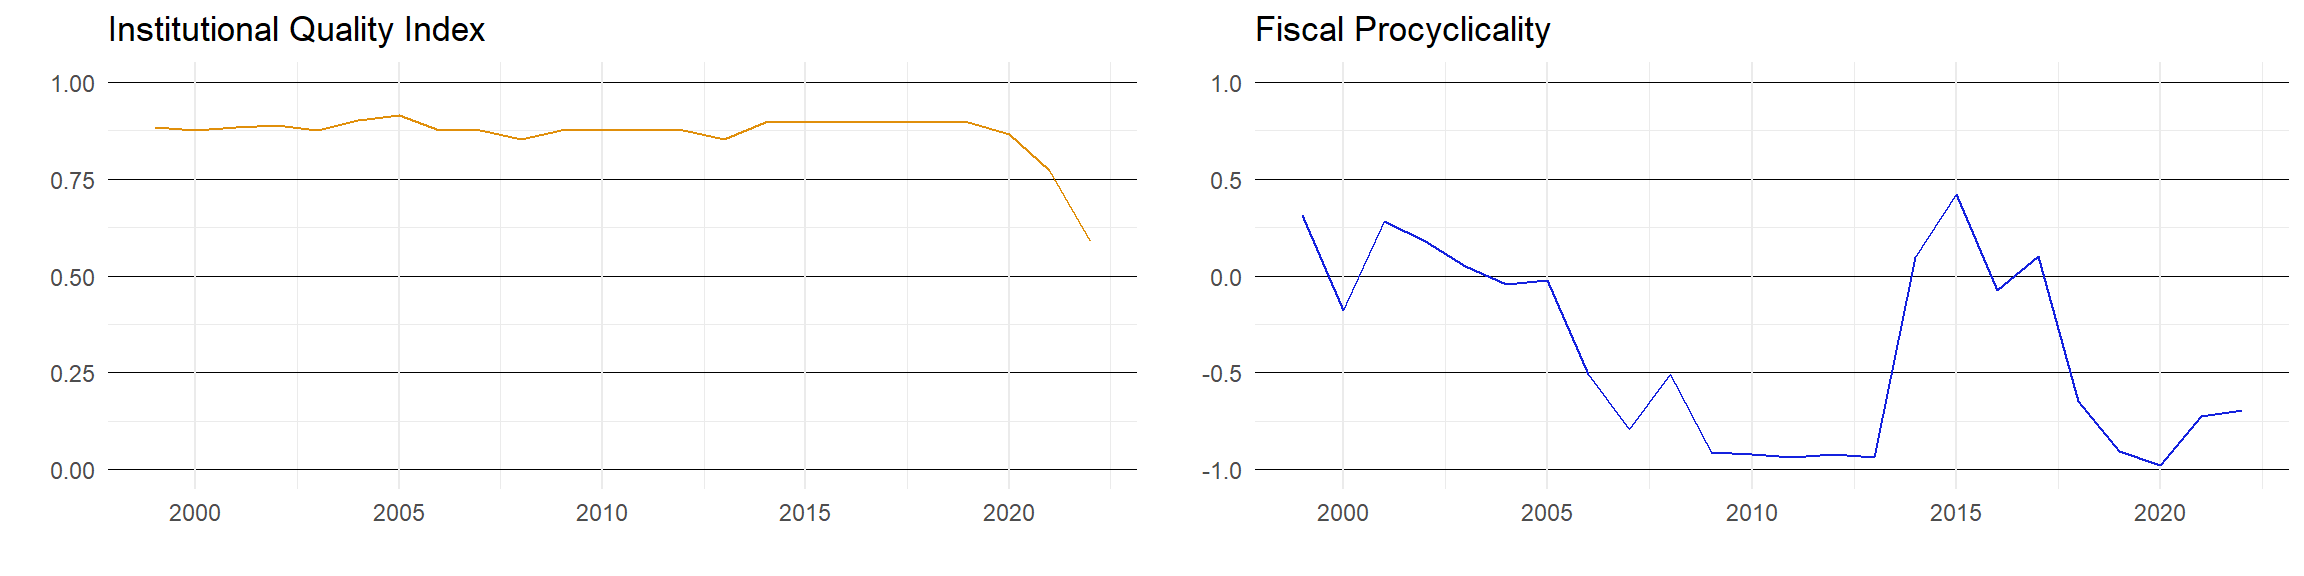
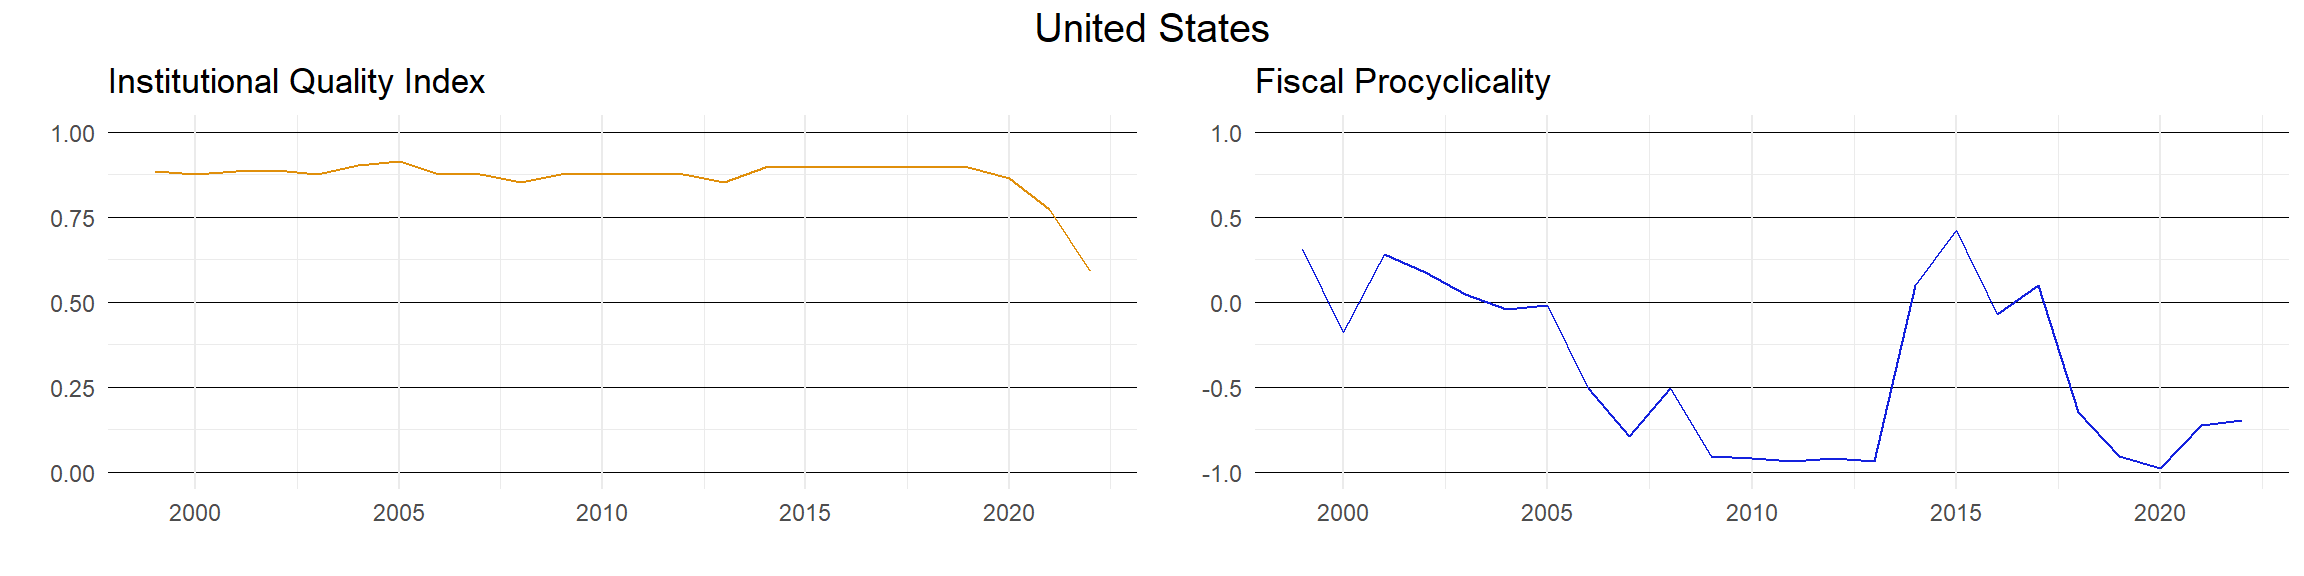
Finished first and final draft of project 1

diff --git a/docs/contents/procyclicality.html b/docs/contents/procyclicality.html
@@ -464,11 +464,21 @@ pre > code.sourceCode > span > a:first-child::before { text-decoration: underlin
 <div class="sourceCode cell-code" id="cb6"><pre class="sourceCode r code-with-copy"><code class="sourceCode r"><span id="cb6-1"><a href="#cb6-1" aria-hidden="true" tabindex="-1"></a><span class="co"># Import library for a grid of charts</span></span>
 <span id="cb6-2"><a href="#cb6-2" aria-hidden="true" tabindex="-1"></a><span class="fu">library</span>(cowplot)</span>
 <span id="cb6-3"><a href="#cb6-3" aria-hidden="true" tabindex="-1"></a></span>
-<span id="cb6-4"><a href="#cb6-4" aria-hidden="true" tabindex="-1"></a><span class="fu">plot_grid</span>(</span>
-<span id="cb6-5"><a href="#cb6-5" aria-hidden="true" tabindex="-1"></a>  <span class="fu">pltime</span>(df, <span class="st">'Ecuador'</span>, <span class="st">'IQ'</span>),</span>
-<span id="cb6-6"><a href="#cb6-6" aria-hidden="true" tabindex="-1"></a>  <span class="fu">pltime</span>(df, <span class="st">'Ecuador'</span>, <span class="st">'ROLCOR'</span>),</span>
-<span id="cb6-7"><a href="#cb6-7" aria-hidden="true" tabindex="-1"></a>  <span class="at">nrow =</span> <span class="dv">1</span></span>
-<span id="cb6-8"><a href="#cb6-8" aria-hidden="true" tabindex="-1"></a>)</span></code><button title="Copy to Clipboard" class="code-copy-button"><i class="bi"></i></button></pre></div>
+<span id="cb6-4"><a href="#cb6-4" aria-hidden="true" tabindex="-1"></a><span class="co"># Draw the title for Ecuador</span></span>
+<span id="cb6-5"><a href="#cb6-5" aria-hidden="true" tabindex="-1"></a>title <span class="ot">&lt;-</span> </span>
+<span id="cb6-6"><a href="#cb6-6" aria-hidden="true" tabindex="-1"></a>  <span class="fu">ggdraw</span>() <span class="sc">+</span></span>
+<span id="cb6-7"><a href="#cb6-7" aria-hidden="true" tabindex="-1"></a>  <span class="fu">draw_label</span>(<span class="st">"Ecuador"</span>, <span class="at">size =</span> <span class="dv">15</span>)</span>
+<span id="cb6-8"><a href="#cb6-8" aria-hidden="true" tabindex="-1"></a></span>
+<span id="cb6-9"><a href="#cb6-9" aria-hidden="true" tabindex="-1"></a><span class="co"># Plot without title and save</span></span>
+<span id="cb6-10"><a href="#cb6-10" aria-hidden="true" tabindex="-1"></a>base <span class="ot">&lt;-</span></span>
+<span id="cb6-11"><a href="#cb6-11" aria-hidden="true" tabindex="-1"></a>  <span class="fu">plot_grid</span>(</span>
+<span id="cb6-12"><a href="#cb6-12" aria-hidden="true" tabindex="-1"></a>  <span class="fu">pltime</span>(df, <span class="st">'Ecuador'</span>, <span class="st">'IQ'</span>),</span>
+<span id="cb6-13"><a href="#cb6-13" aria-hidden="true" tabindex="-1"></a>  <span class="fu">pltime</span>(df, <span class="st">'Ecuador'</span>, <span class="st">'ROLCOR'</span>),</span>
+<span id="cb6-14"><a href="#cb6-14" aria-hidden="true" tabindex="-1"></a>  <span class="at">nrow =</span> <span class="dv">1</span></span>
+<span id="cb6-15"><a href="#cb6-15" aria-hidden="true" tabindex="-1"></a>)</span>
+<span id="cb6-16"><a href="#cb6-16" aria-hidden="true" tabindex="-1"></a></span>
+<span id="cb6-17"><a href="#cb6-17" aria-hidden="true" tabindex="-1"></a><span class="co"># Include title</span></span>
+<span id="cb6-18"><a href="#cb6-18" aria-hidden="true" tabindex="-1"></a><span class="fu">plot_grid</span>(title, base, <span class="at">ncol =</span> <span class="dv">1</span>, <span class="at">rel_heights =</span> <span class="fu">c</span>(<span class="fl">0.15</span>, <span class="dv">1</span>))</span></code><button title="Copy to Clipboard" class="code-copy-button"><i class="bi"></i></button></pre></div>
 </details>
 <div class="cell-output-display">
 <p><img src="procyclicality_files/figure-html/unnamed-chunk-6-1.png" class="img-fluid" width="1152"></p>
@@ -477,12 +487,21 @@ pre > code.sourceCode > span > a:first-child::before { text-decoration: underlin
 <div class="cell" data-output-location="column" data-fig.format="svg">
 <details>
 <summary>Code</summary>
-<div class="sourceCode cell-code" id="cb7"><pre class="sourceCode r code-with-copy"><code class="sourceCode r"><span id="cb7-1"><a href="#cb7-1" aria-hidden="true" tabindex="-1"></a><span class="co">#</span></span>
-<span id="cb7-2"><a href="#cb7-2" aria-hidden="true" tabindex="-1"></a><span class="fu">plot_grid</span>(</span>
-<span id="cb7-3"><a href="#cb7-3" aria-hidden="true" tabindex="-1"></a>  <span class="fu">pltime</span>(df, <span class="st">'Guatemala'</span>, <span class="st">'IQ'</span>),</span>
-<span id="cb7-4"><a href="#cb7-4" aria-hidden="true" tabindex="-1"></a>  <span class="fu">pltime</span>(df, <span class="st">'Guatemala'</span>, <span class="st">'ROLCOR'</span>),</span>
-<span id="cb7-5"><a href="#cb7-5" aria-hidden="true" tabindex="-1"></a>  <span class="at">nrow =</span> <span class="dv">1</span></span>
-<span id="cb7-6"><a href="#cb7-6" aria-hidden="true" tabindex="-1"></a>)</span></code><button title="Copy to Clipboard" class="code-copy-button"><i class="bi"></i></button></pre></div>
+<div class="sourceCode cell-code" id="cb7"><pre class="sourceCode r code-with-copy"><code class="sourceCode r"><span id="cb7-1"><a href="#cb7-1" aria-hidden="true" tabindex="-1"></a><span class="co"># Draw the title for the US</span></span>
+<span id="cb7-2"><a href="#cb7-2" aria-hidden="true" tabindex="-1"></a>title <span class="ot">&lt;-</span> </span>
+<span id="cb7-3"><a href="#cb7-3" aria-hidden="true" tabindex="-1"></a>  <span class="fu">ggdraw</span>() <span class="sc">+</span></span>
+<span id="cb7-4"><a href="#cb7-4" aria-hidden="true" tabindex="-1"></a>  <span class="fu">draw_label</span>(<span class="st">"Guatemala"</span>, <span class="at">size =</span> <span class="dv">15</span>)</span>
+<span id="cb7-5"><a href="#cb7-5" aria-hidden="true" tabindex="-1"></a></span>
+<span id="cb7-6"><a href="#cb7-6" aria-hidden="true" tabindex="-1"></a><span class="co"># Plot without title and save</span></span>
+<span id="cb7-7"><a href="#cb7-7" aria-hidden="true" tabindex="-1"></a>base <span class="ot">&lt;-</span></span>
+<span id="cb7-8"><a href="#cb7-8" aria-hidden="true" tabindex="-1"></a>  <span class="fu">plot_grid</span>(</span>
+<span id="cb7-9"><a href="#cb7-9" aria-hidden="true" tabindex="-1"></a>  <span class="fu">pltime</span>(df, <span class="st">'Guatemala'</span>, <span class="st">'IQ'</span>),</span>
+<span id="cb7-10"><a href="#cb7-10" aria-hidden="true" tabindex="-1"></a>  <span class="fu">pltime</span>(df, <span class="st">'Guatemala'</span>, <span class="st">'ROLCOR'</span>),</span>
+<span id="cb7-11"><a href="#cb7-11" aria-hidden="true" tabindex="-1"></a>  <span class="at">nrow =</span> <span class="dv">1</span></span>
+<span id="cb7-12"><a href="#cb7-12" aria-hidden="true" tabindex="-1"></a>)</span>
+<span id="cb7-13"><a href="#cb7-13" aria-hidden="true" tabindex="-1"></a></span>
+<span id="cb7-14"><a href="#cb7-14" aria-hidden="true" tabindex="-1"></a><span class="co"># Include title</span></span>
+<span id="cb7-15"><a href="#cb7-15" aria-hidden="true" tabindex="-1"></a><span class="fu">plot_grid</span>(title, base, <span class="at">ncol =</span> <span class="dv">1</span>, <span class="at">rel_heights =</span> <span class="fu">c</span>(<span class="fl">0.1</span>, <span class="dv">1</span>))</span></code><button title="Copy to Clipboard" class="code-copy-button"><i class="bi"></i></button></pre></div>
 </details>
 <div class="cell-output-display">
 <p><img src="procyclicality_files/figure-html/unnamed-chunk-7-1.png" class="img-fluid" width="1152"></p>
@@ -491,17 +510,27 @@ pre > code.sourceCode > span > a:first-child::before { text-decoration: underlin
 <div class="cell" data-output-location="column" data-fig.format="svg">
 <details>
 <summary>Code</summary>
-<div class="sourceCode cell-code" id="cb8"><pre class="sourceCode r code-with-copy"><code class="sourceCode r"><span id="cb8-1"><a href="#cb8-1" aria-hidden="true" tabindex="-1"></a><span class="co">#</span></span>
-<span id="cb8-2"><a href="#cb8-2" aria-hidden="true" tabindex="-1"></a><span class="fu">plot_grid</span>(</span>
-<span id="cb8-3"><a href="#cb8-3" aria-hidden="true" tabindex="-1"></a>  <span class="fu">pltime</span>(df, <span class="st">'United States'</span>, <span class="st">'IQ'</span>),</span>
-<span id="cb8-4"><a href="#cb8-4" aria-hidden="true" tabindex="-1"></a>  <span class="fu">pltime</span>(df, <span class="st">'United States'</span>, <span class="st">'ROLCOR'</span>),</span>
-<span id="cb8-5"><a href="#cb8-5" aria-hidden="true" tabindex="-1"></a>  <span class="at">nrow =</span> <span class="dv">1</span></span>
-<span id="cb8-6"><a href="#cb8-6" aria-hidden="true" tabindex="-1"></a>)</span></code><button title="Copy to Clipboard" class="code-copy-button"><i class="bi"></i></button></pre></div>
+<div class="sourceCode cell-code" id="cb8"><pre class="sourceCode r code-with-copy"><code class="sourceCode r"><span id="cb8-1"><a href="#cb8-1" aria-hidden="true" tabindex="-1"></a><span class="co"># Draw the title for the US</span></span>
+<span id="cb8-2"><a href="#cb8-2" aria-hidden="true" tabindex="-1"></a>title <span class="ot">&lt;-</span> </span>
+<span id="cb8-3"><a href="#cb8-3" aria-hidden="true" tabindex="-1"></a>  <span class="fu">ggdraw</span>() <span class="sc">+</span></span>
+<span id="cb8-4"><a href="#cb8-4" aria-hidden="true" tabindex="-1"></a>  <span class="fu">draw_label</span>(<span class="st">"United States"</span>, <span class="at">size =</span> <span class="dv">15</span>)</span>
+<span id="cb8-5"><a href="#cb8-5" aria-hidden="true" tabindex="-1"></a></span>
+<span id="cb8-6"><a href="#cb8-6" aria-hidden="true" tabindex="-1"></a><span class="co"># Plot without title and save</span></span>
+<span id="cb8-7"><a href="#cb8-7" aria-hidden="true" tabindex="-1"></a>base <span class="ot">&lt;-</span> </span>
+<span id="cb8-8"><a href="#cb8-8" aria-hidden="true" tabindex="-1"></a>  <span class="fu">plot_grid</span>(</span>
+<span id="cb8-9"><a href="#cb8-9" aria-hidden="true" tabindex="-1"></a>  <span class="fu">pltime</span>(df, <span class="st">'United States'</span>, <span class="st">'IQ'</span>),</span>
+<span id="cb8-10"><a href="#cb8-10" aria-hidden="true" tabindex="-1"></a>  <span class="fu">pltime</span>(df, <span class="st">'United States'</span>, <span class="st">'ROLCOR'</span>),</span>
+<span id="cb8-11"><a href="#cb8-11" aria-hidden="true" tabindex="-1"></a>  <span class="at">nrow =</span> <span class="dv">1</span></span>
+<span id="cb8-12"><a href="#cb8-12" aria-hidden="true" tabindex="-1"></a>)</span>
+<span id="cb8-13"><a href="#cb8-13" aria-hidden="true" tabindex="-1"></a></span>
+<span id="cb8-14"><a href="#cb8-14" aria-hidden="true" tabindex="-1"></a><span class="co"># Include title</span></span>
+<span id="cb8-15"><a href="#cb8-15" aria-hidden="true" tabindex="-1"></a><span class="fu">plot_grid</span>(title, base, <span class="at">ncol =</span> <span class="dv">1</span>, <span class="at">rel_heights =</span> <span class="fu">c</span>(<span class="fl">0.1</span>, <span class="dv">1</span>))</span></code><button title="Copy to Clipboard" class="code-copy-button"><i class="bi"></i></button></pre></div>
 </details>
 <div class="cell-output-display">
 <p><img src="procyclicality_files/figure-html/unnamed-chunk-8-1.png" class="img-fluid" width="1152"></p>
 </div>
 </div>
+<p>A simple algorithm was employed to build a model to represent the relationship between institutional quality and fiscal pro-cyclicality. A loess (Local Polynomial Regression Fitting) curve was fitted to the data for the last four years in the sample. Although not exactly a straight line, increasing institutional quality reduces pro-cyclicality. Let 0.6 be the threshold above which the relation is better approximated linearly. From that threshold onward, it is clear the increases in the institutional quality index are associated with a decrease in fiscal pro-cyclicaity. This is less obvious for data points below the threshold where the data is more spread out, suggesting that countries with poorer institutional quality vary widely in their fiscal regimes.</p>
 <div class="cell" data-output-location="column" data-fig.format="svg">
 <details>
 <summary>Code</summary>
@@ -514,25 +543,27 @@ pre > code.sourceCode > span > a:first-child::before { text-decoration: underlin
 <span id="cb9-7"><a href="#cb9-7" aria-hidden="true" tabindex="-1"></a>         ) <span class="sc">+</span></span>
 <span id="cb9-8"><a href="#cb9-8" aria-hidden="true" tabindex="-1"></a>  <span class="fu">geom_point</span>(<span class="at">alpha =</span> <span class="fl">0.25</span>) <span class="sc">+</span></span>
 <span id="cb9-9"><a href="#cb9-9" aria-hidden="true" tabindex="-1"></a>  <span class="fu">geom_smooth</span>(<span class="at">linewidth=</span><span class="fl">0.75</span>,</span>
-<span id="cb9-10"><a href="#cb9-10" aria-hidden="true" tabindex="-1"></a>              <span class="at">span=</span><span class="fl">0.9</span>,</span>
-<span id="cb9-11"><a href="#cb9-11" aria-hidden="true" tabindex="-1"></a>              <span class="at">se=</span><span class="cn">FALSE</span>) <span class="sc">+</span></span>
-<span id="cb9-12"><a href="#cb9-12" aria-hidden="true" tabindex="-1"></a>  <span class="fu">guides</span>(</span>
-<span id="cb9-13"><a href="#cb9-13" aria-hidden="true" tabindex="-1"></a>    <span class="at">color =</span> <span class="fu">guide_legend</span>(<span class="at">title=</span><span class="st">'Year'</span>)</span>
-<span id="cb9-14"><a href="#cb9-14" aria-hidden="true" tabindex="-1"></a>  ) <span class="sc">+</span></span>
-<span id="cb9-15"><a href="#cb9-15" aria-hidden="true" tabindex="-1"></a>  <span class="fu">labs</span>(</span>
-<span id="cb9-16"><a href="#cb9-16" aria-hidden="true" tabindex="-1"></a>    <span class="at">title =</span> <span class="st">'LOWESS Model For Years 2018 to 2021'</span>,</span>
-<span id="cb9-17"><a href="#cb9-17" aria-hidden="true" tabindex="-1"></a>    <span class="at">y =</span> <span class="st">'Correlation between GDP and Govt. Purchases'</span>,</span>
-<span id="cb9-18"><a href="#cb9-18" aria-hidden="true" tabindex="-1"></a>    <span class="at">x =</span> <span class="st">'Institutional Quality Index'</span></span>
-<span id="cb9-19"><a href="#cb9-19" aria-hidden="true" tabindex="-1"></a>  ) <span class="sc">+</span></span>
-<span id="cb9-20"><a href="#cb9-20" aria-hidden="true" tabindex="-1"></a>  <span class="fu">theme_minimal</span>() <span class="sc">+</span></span>
-<span id="cb9-21"><a href="#cb9-21" aria-hidden="true" tabindex="-1"></a>  <span class="fu">theme</span>(</span>
-<span id="cb9-22"><a href="#cb9-22" aria-hidden="true" tabindex="-1"></a>    <span class="at">panel.grid.major.y =</span> <span class="fu">element_line</span>(<span class="at">linewidth =</span> <span class="fl">0.1</span>, <span class="at">colour =</span> <span class="st">'black'</span>)</span>
-<span id="cb9-23"><a href="#cb9-23" aria-hidden="true" tabindex="-1"></a>  )</span></code><button title="Copy to Clipboard" class="code-copy-button"><i class="bi"></i></button></pre></div>
+<span id="cb9-10"><a href="#cb9-10" aria-hidden="true" tabindex="-1"></a>              <span class="at">method =</span> <span class="st">'loess'</span>,</span>
+<span id="cb9-11"><a href="#cb9-11" aria-hidden="true" tabindex="-1"></a>              <span class="at">span =</span> <span class="dv">1</span>,</span>
+<span id="cb9-12"><a href="#cb9-12" aria-hidden="true" tabindex="-1"></a>              <span class="at">se=</span><span class="cn">FALSE</span>) <span class="sc">+</span></span>
+<span id="cb9-13"><a href="#cb9-13" aria-hidden="true" tabindex="-1"></a>  <span class="fu">guides</span>(</span>
+<span id="cb9-14"><a href="#cb9-14" aria-hidden="true" tabindex="-1"></a>    <span class="at">color =</span> <span class="fu">guide_legend</span>(<span class="at">title=</span><span class="st">'Year'</span>)</span>
+<span id="cb9-15"><a href="#cb9-15" aria-hidden="true" tabindex="-1"></a>  ) <span class="sc">+</span></span>
+<span id="cb9-16"><a href="#cb9-16" aria-hidden="true" tabindex="-1"></a>  <span class="fu">labs</span>(</span>
+<span id="cb9-17"><a href="#cb9-17" aria-hidden="true" tabindex="-1"></a>    <span class="at">title =</span> <span class="st">'LOWESS Model For Years 2018 to 2021'</span>,</span>
+<span id="cb9-18"><a href="#cb9-18" aria-hidden="true" tabindex="-1"></a>    <span class="at">y =</span> <span class="st">'Correlation between GDP and Govt. Purchases'</span>,</span>
+<span id="cb9-19"><a href="#cb9-19" aria-hidden="true" tabindex="-1"></a>    <span class="at">x =</span> <span class="st">'Institutional Quality Index'</span></span>
+<span id="cb9-20"><a href="#cb9-20" aria-hidden="true" tabindex="-1"></a>  ) <span class="sc">+</span></span>
+<span id="cb9-21"><a href="#cb9-21" aria-hidden="true" tabindex="-1"></a>  <span class="fu">theme_minimal</span>() <span class="sc">+</span></span>
+<span id="cb9-22"><a href="#cb9-22" aria-hidden="true" tabindex="-1"></a>  <span class="fu">theme</span>(</span>
+<span id="cb9-23"><a href="#cb9-23" aria-hidden="true" tabindex="-1"></a>    <span class="at">panel.grid.major.y =</span> <span class="fu">element_line</span>(<span class="at">linewidth =</span> <span class="fl">0.1</span>, <span class="at">colour =</span> <span class="st">'black'</span>)</span>
+<span id="cb9-24"><a href="#cb9-24" aria-hidden="true" tabindex="-1"></a>  )</span></code><button title="Copy to Clipboard" class="code-copy-button"><i class="bi"></i></button></pre></div>
 </details>
 <div class="cell-output-display">
 <p><img src="procyclicality_files/figure-html/unnamed-chunk-9-1.png" class="img-fluid" width="1152"></p>
 </div>
 </div>
+<p>There exists, therefore, a real and persistent association between institutional quality and fiscal pro-cyclicality. The present work aimed at crafting compelling visualizations that explore this relationship without much emphasis on formal statistical modelling. The resulting figures can serve as the motivation for further work to understand the extent of this relationship after controlling for other factors and to investigate whether there exists a truly causal relationship.</p>
 </section>
 </section>
 <section id="references" class="level2">
